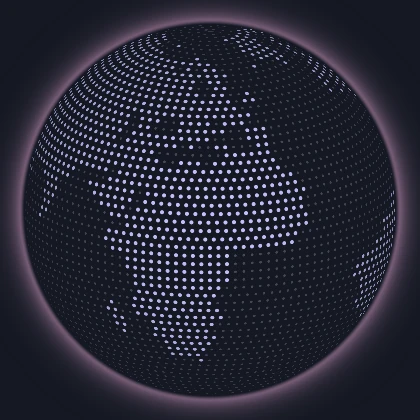
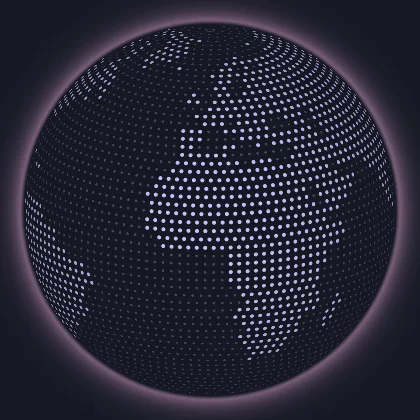
Globe: east on the right, not a mirror image
The shader turned the screen into the globe's frame with a left-handed
basis, so the continents came out mirrored east to west (Australia left
of India, Africa's bulge on the east) and the spin looked backwards.
Right is now east at the longitude facing us.

The render test checks that, facing Africa, the lit land lies right of
the middle; it failed before (2782 dots left, 1068 right). The picture
in docs/LOOKS.md is rendered again.

Changed region(s): [[0.0619, 0.0619, 0.9595, 0.9286], [0.5571, 0.8976, 0.5881, 0.9286]]

diff --git a/tests/test_render.cpp b/tests/test_render.cpp
@@ -509,6 +509,17 @@ int main(int argc, char** argv) {
     const size_t pacific = lit(renderLook("globe", 300, 300, pal, &gl));
     if (!(africa > 3 * pacific && africa > 2000)) std::fprintf(stderr, "globe: %zu dots lit over Africa, %zu over the Pacific\n", africa, pacific);
     CHECK(africa > 3 * pacific && africa > 2000);
+    // east is on the right, as seen from space: facing Africa, Arabia and the
+    // Indian Ocean's shores lie right of the middle, the empty Atlantic left
+    // (a mirrored frame swapped them)
+    gl.insert_or_assign("globe_preview", 1.5);
+    const Image front = renderLook("globe", 300, 300, pal, &gl);
+    size_t left = 0, right = 0;
+    for (int y = 0; y < front.h; ++y)
+      for (int x = 0; x < front.w; ++x)
+        if (front.rgba[(static_cast<size_t>(y * front.w + x)) * 4 + 3] > 150) (x < front.w / 2 ? left : right) += 1;
+    if (!(right > left * 3 / 2)) std::fprintf(stderr, "globe: %zu dots lit left of the middle, %zu right\n", left, right);
+    CHECK(right > left * 3 / 2);
   }
 
   // the neon sign: its words lit in its colour round the box's middle, a shape

diff --git a/src/globe.cpp b/src/globe.cpp
@@ -56,7 +56,8 @@ void main() {
     float ct = cos(u_tilt), st = sin(u_tilt);
     vec3 q = vec3(n.x, n.y * ct + n.z * st, -n.y * st + n.z * ct);   // y up, z towards us
     float cr = cos(u_turn), sr = sin(u_turn);
-    vec3 g = vec3(q.x * cr + q.z * sr, -q.x * sr + q.z * cr, q.y);  // x, y on the equator; z the north pole
+    // right is east: (-sin, cos) of the longitude facing us, pi/2 - turn (a right-handed frame, not a mirror)
+    vec3 g = vec3(-q.x * cr + q.z * sr, q.x * sr + q.z * cr, q.y);  // x, y on the equator; z the north pole
     float lat = asin(clamp(g.z, -1.0, 1.0));
     float lon = atan(g.y, g.x);
     // the dot grid: rows of latitude, each with as many dots as fit round it
